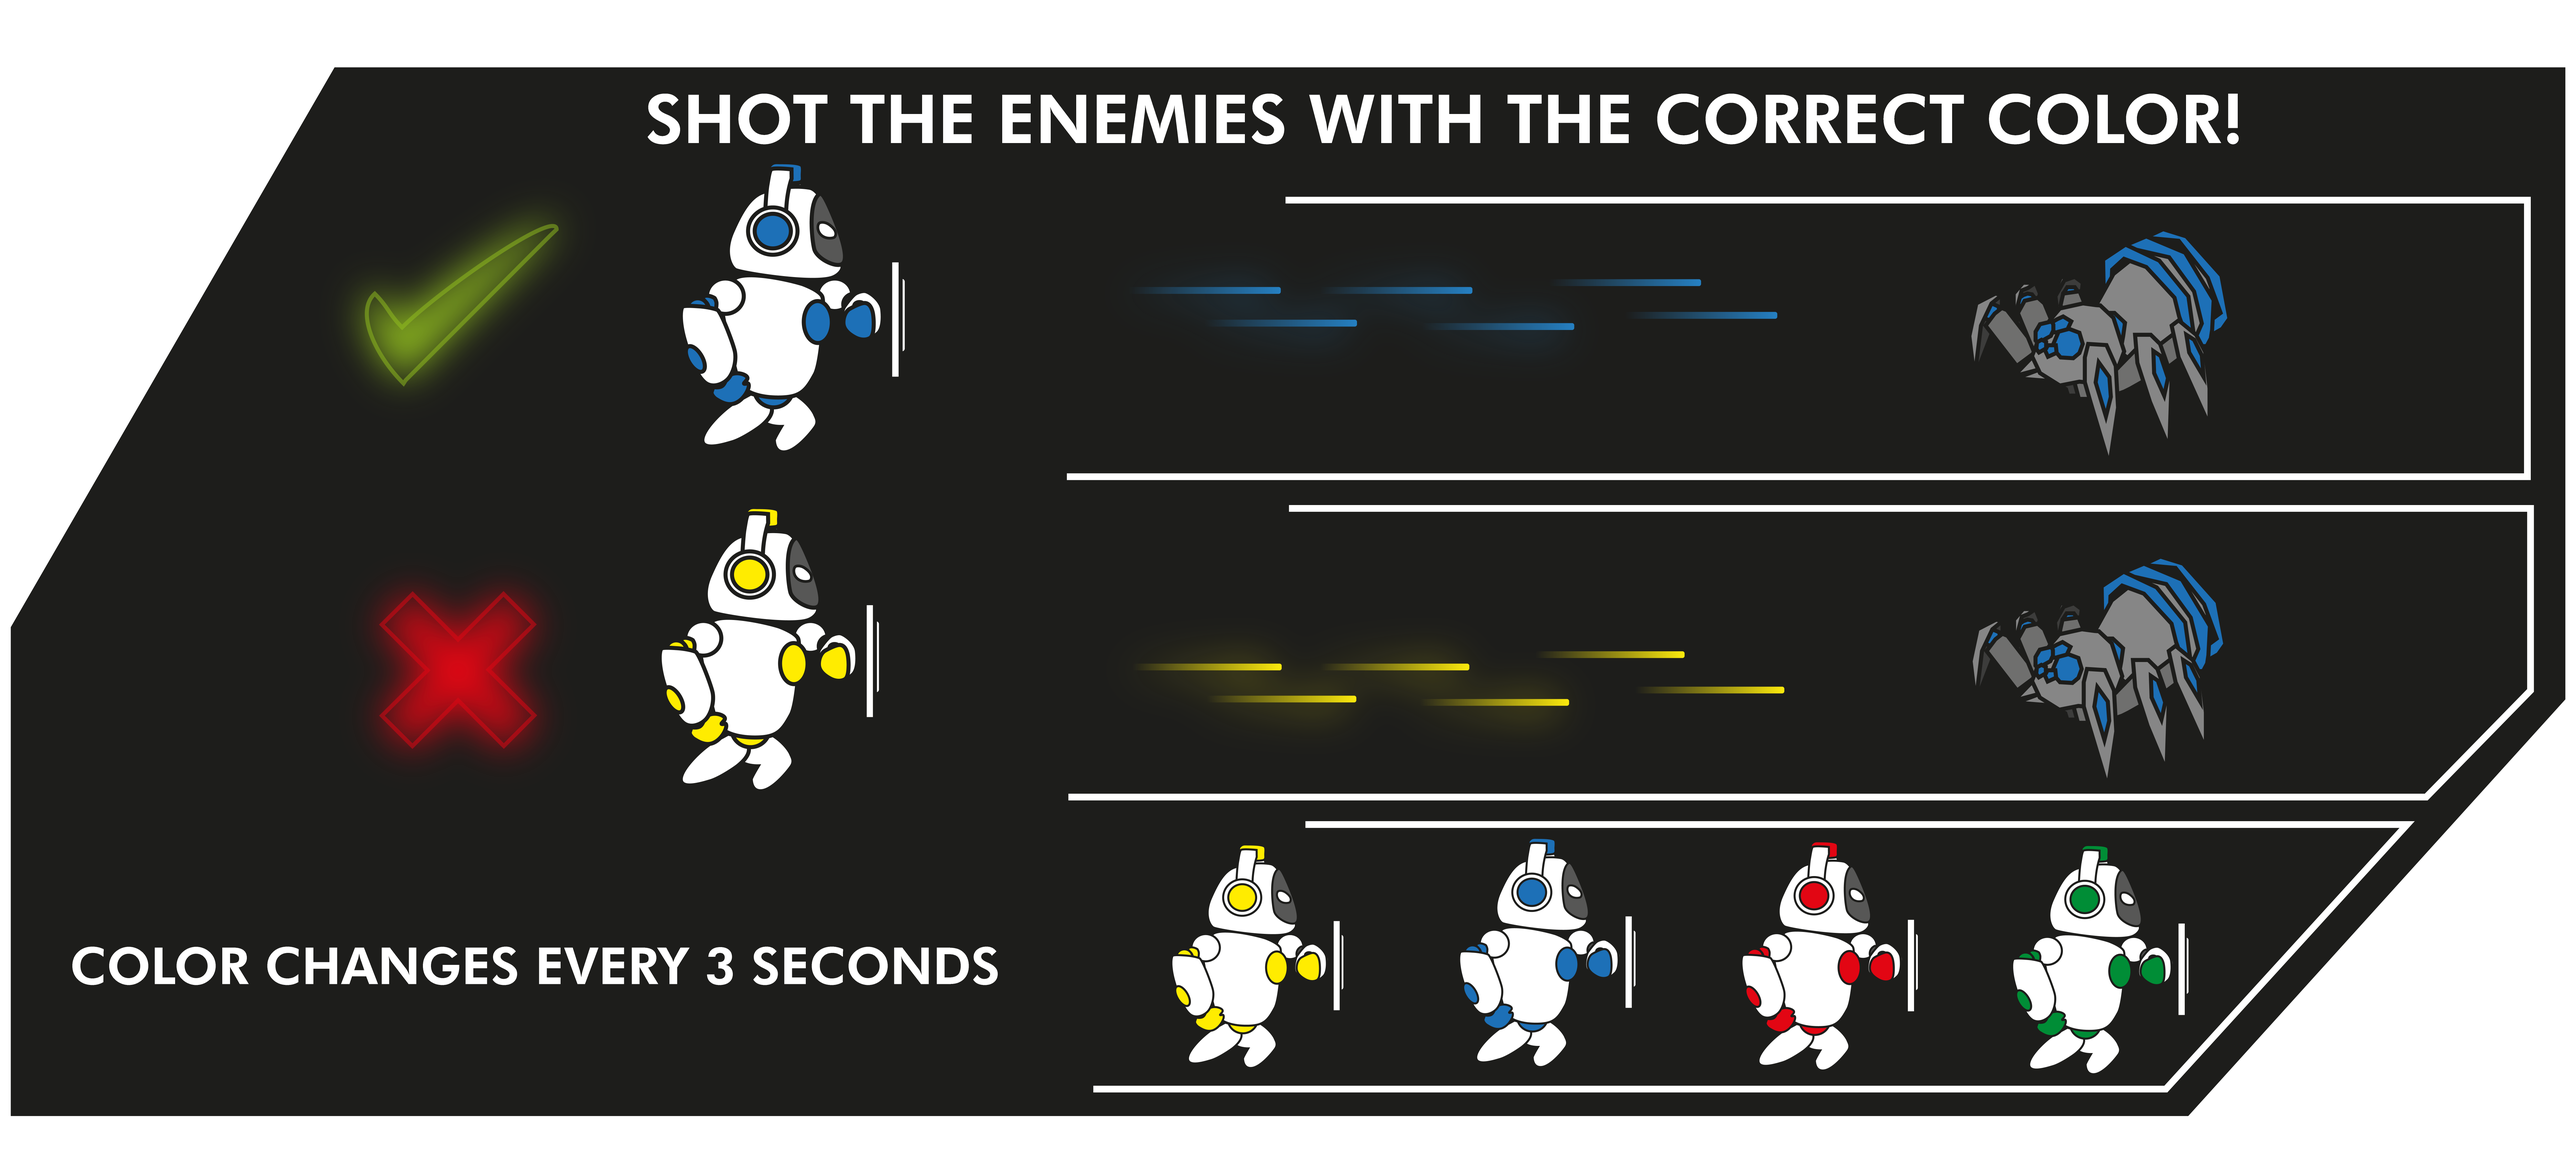
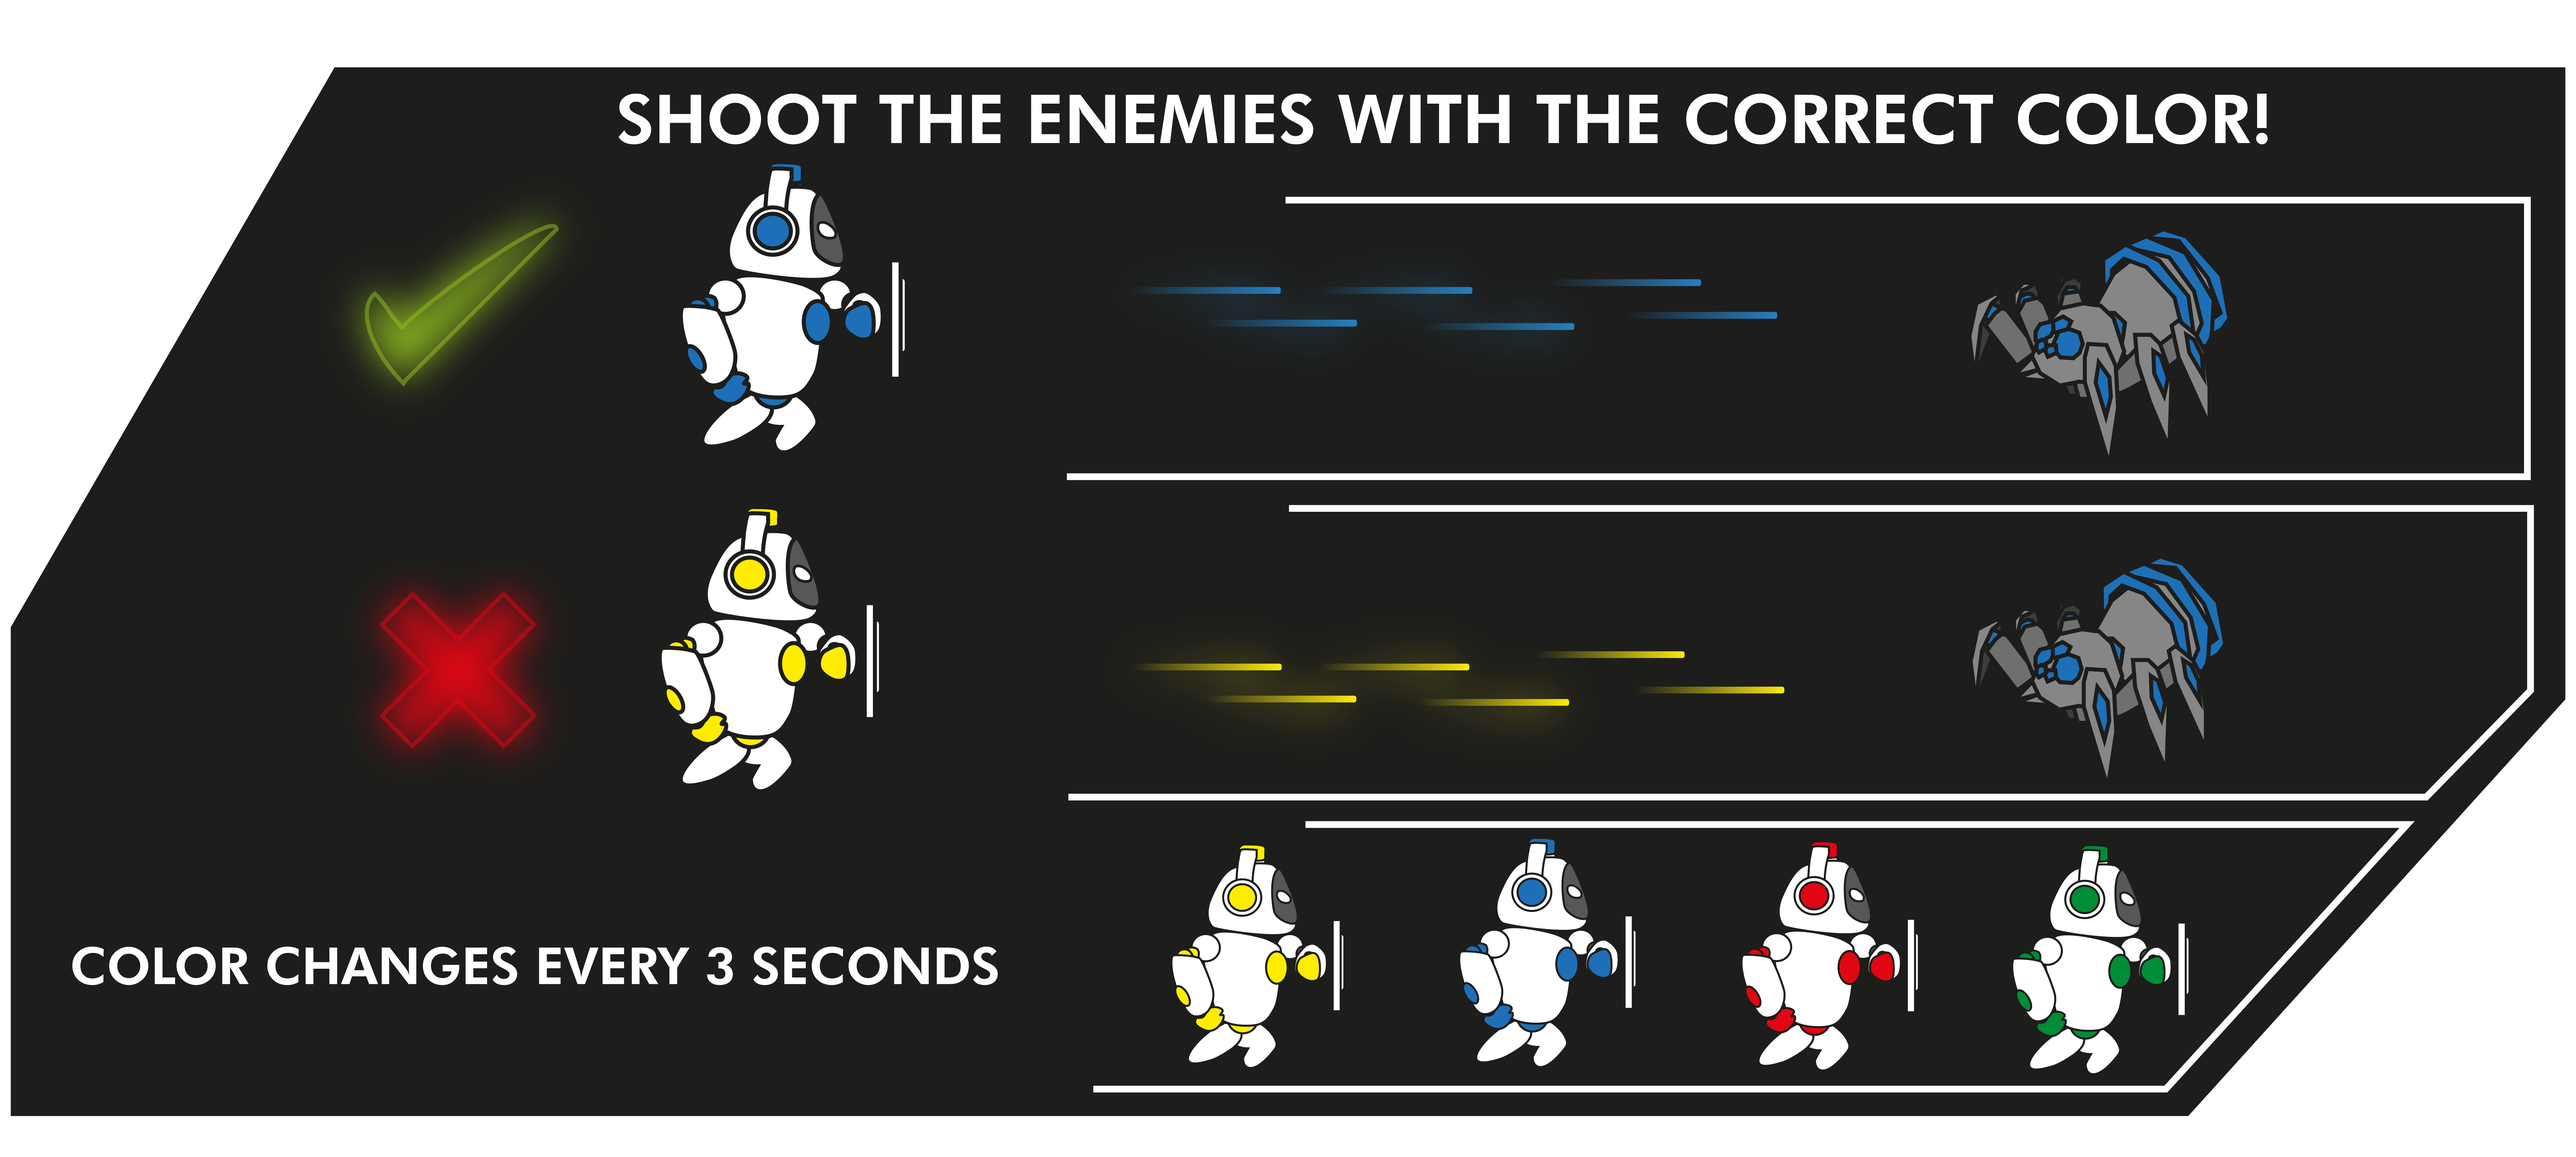
CHG: "No controllers detected" message added to main menu
FIX: Typo in tutorial image

Changed region(s): [[0.2186, 0.062, 0.9057, 0.1239]]

diff --git a/Assets/Scripts/MainMenu/MainMenuManager.cs b/Assets/Scripts/MainMenu/MainMenuManager.cs
@@ -63,6 +63,7 @@ public class MainMenuManager : MonoBehaviour {
     private int tutorialTotalItems;
 
     public GameObject askTutorial;
+    public GameObject noController;
 
     private int playersNumber = 1;
 
@@ -134,12 +135,14 @@ public class MainMenuManager : MonoBehaviour {
     {
         Debug.Log("Added controller: " + obj.Name);
         SetPlayButtonImages();
+        CheckConnectedControllers();
     }
     private void OnDeviceDetached(InputDevice obj)
     {
         Debug.Log("Removed controller: " + obj.Name);
         playBtn.Select();
         SetPlayButtonImages();
+        CheckConnectedControllers();
     }
 
     // Update is called once per frame
@@ -166,12 +169,18 @@ public class MainMenuManager : MonoBehaviour {
             }
         }
 
+        if (InputManager.Devices.Count == 0 && Input.GetKey(KeyCode.Escape))
+        {
+            Application.Quit();
+        }
+
         switch (currentState)
         {
             case MainMenuState.FADING_IN:
                 if (!fadeScript.FadingToClear)
                 {
                     EnableMainButtons();
+                    CheckConnectedControllers();
                     currentState = MainMenuState.IDLE;
                 }
                 break;
@@ -283,6 +292,20 @@ public class MainMenuManager : MonoBehaviour {
         {
             player2Btn.GetComponent<Image>().sprite = player2IdleSprite;
             player2Btn.enabled = true;
+        }
+    }
+
+    private void CheckConnectedControllers()
+    {
+        if (InputManager.Devices.Count == 0)
+        {
+            //DisableMainButtons();
+            noController.SetActive(true);
+        }
+        else
+        {
+            //EnableMainButtons();
+            noController.SetActive(false);
         }
     }
 

diff --git a/Assets/ZZ_ExternalResources/InControl/InControl/Source/VersionInfo.cs b/Assets/ZZ_ExternalResources/InControl/InControl/Source/VersionInfo.cs
@@ -28,7 +28,7 @@ namespace InControl
 				Major = 1,
 				Minor = 4,
 				Patch = 4,
-				Build = 9185
+				Build = 9189
 			};
 		}
 
